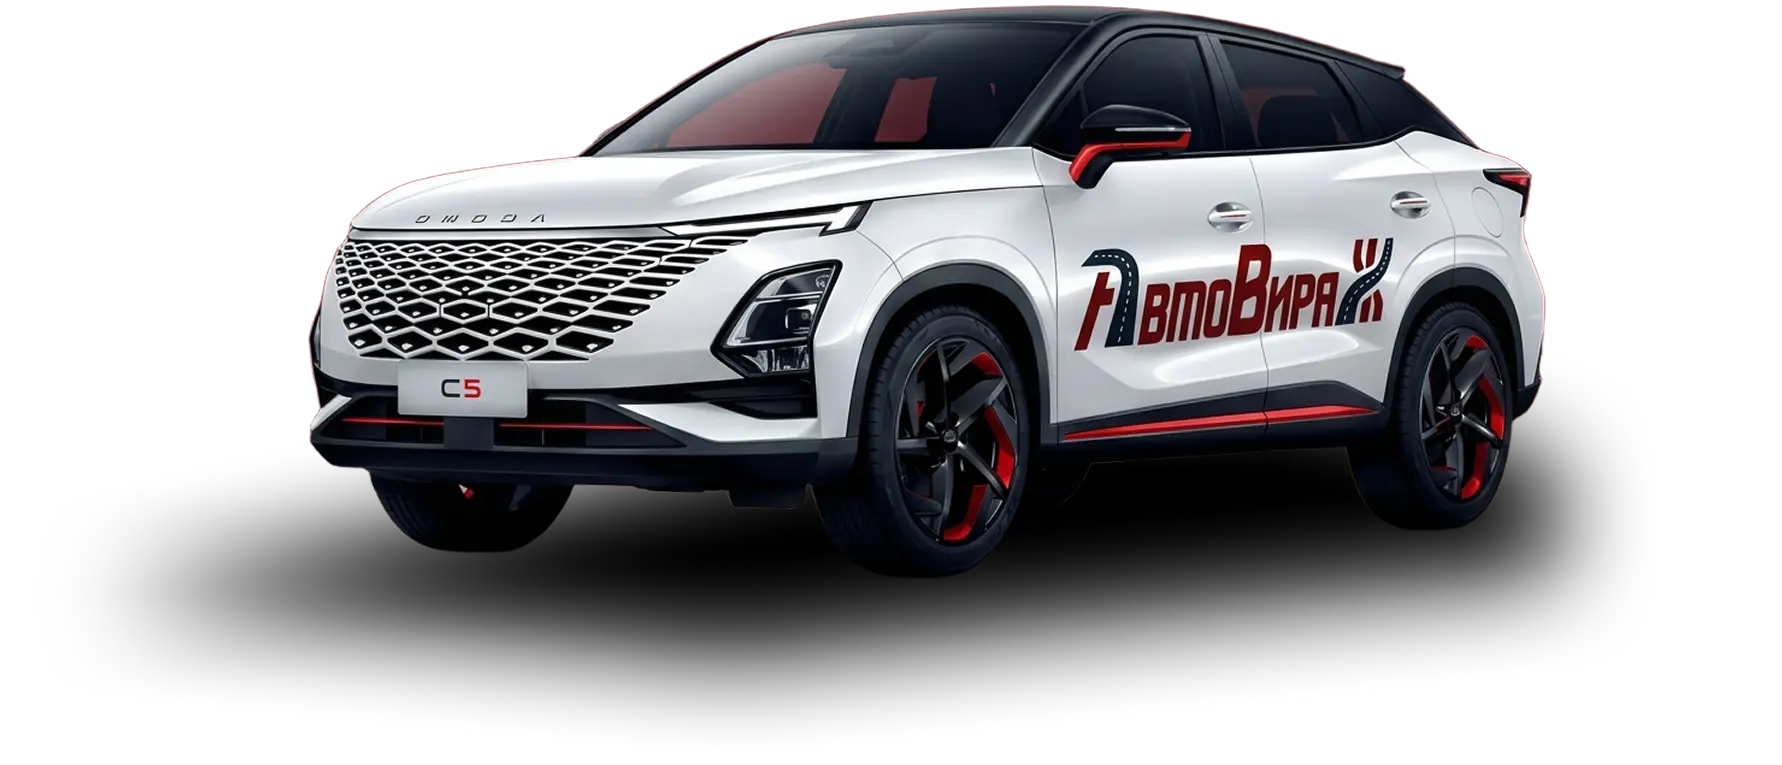
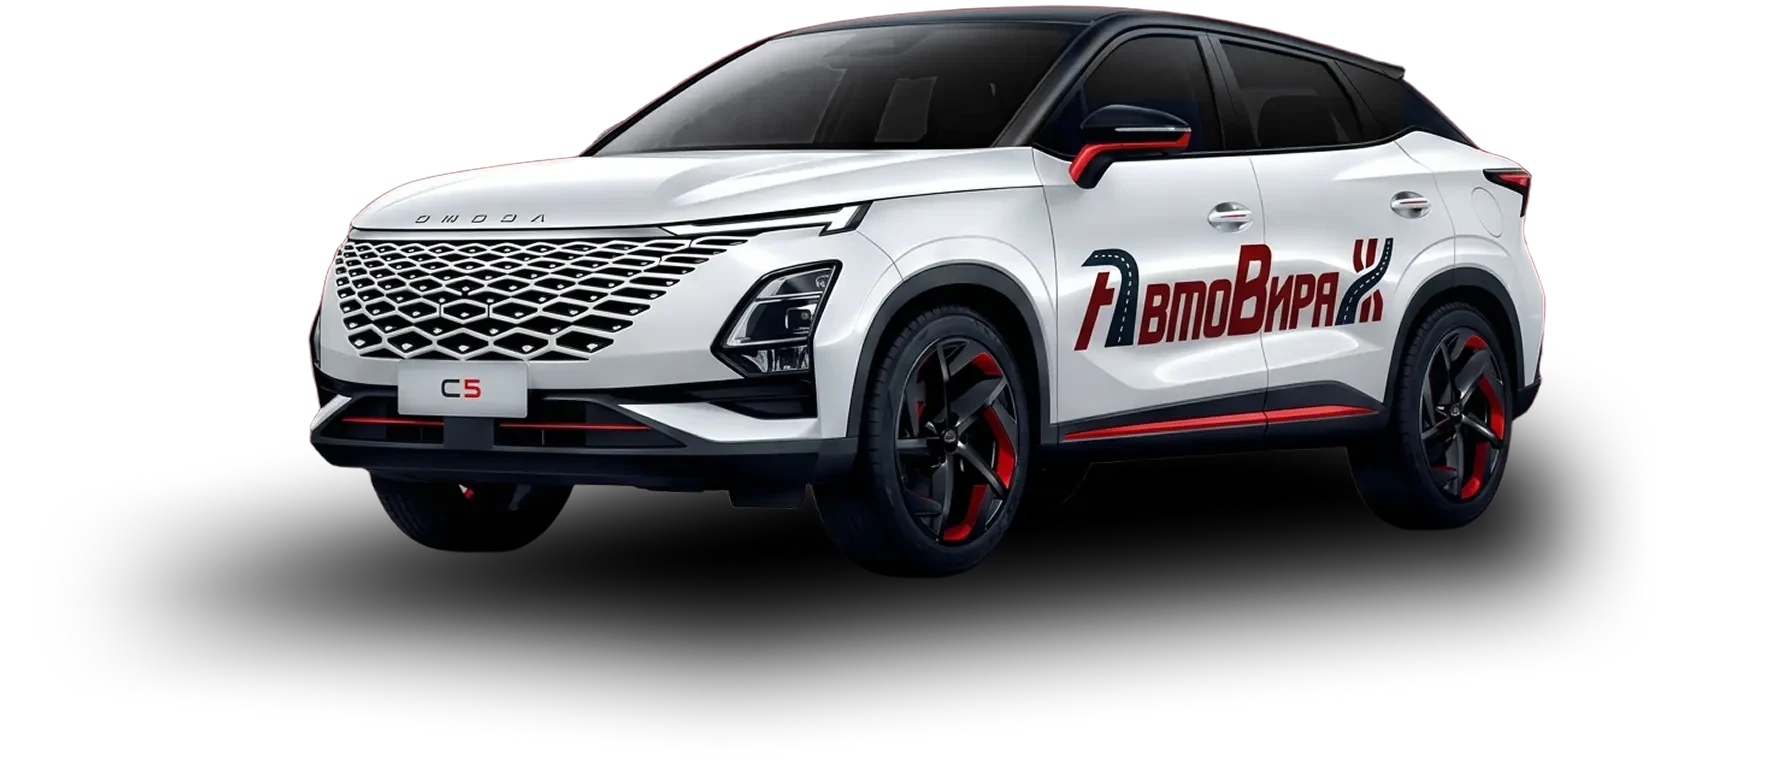
Первый экран: убран красный салон за стёклами Omoda (tools/car-windows.py)

Changed region(s): [[0.3704, 0.0902, 0.5247, 0.2105]]

diff --git a/tools/car-windows.py b/tools/car-windows.py
@@ -1,0 +1,42 @@
+# Убрать красный салон за стёклами Omoda: внутри контура стёкол красные пиксели переводятся в серый той же яркости.
+# Контуры заданы в координатах img/hero-omoda.webp (1782×765); для сцены первого экрана передаём, где там стоит машина.
+#   py -3 tools/car-windows.py <вход> <выход> [ширина_машины X Y] [quality]
+# Сцена:   py -3 tools/car-windows.py img/hero-scene.webp img/hero-scene.webp 939 691 467
+# Телефон: py -3 tools/car-windows.py img/hero-scene-m.webp img/hero-scene-m.webp 939 -69 357
+import sys
+from PIL import Image, ImageDraw, ImageFilter
+import numpy as np
+
+SRC_W = 1782
+GLASS = [  # лобовое стекло; боковые окна над зеркалом и за ним (сам красный корпус зеркала не трогаем)
+    [(590, 156), (640, 112), (790, 34), (1066, 24), (1052, 100), (1038, 152)],
+    [(1086, 34), (1405, 62), (1402, 146), (1204, 152), (1198, 96), (1086, 100)],
+]
+
+src, out = sys.argv[1], sys.argv[2]
+k, ox, oy = 1.0, 0, 0
+if len(sys.argv) >= 6:
+    k, ox, oy = int(sys.argv[3]) / SRC_W, int(sys.argv[4]), int(sys.argv[5])
+quality = int(sys.argv[6]) if len(sys.argv) >= 7 else 88
+
+im = Image.open(src)
+mode = im.mode
+rgba = im.convert('RGBA')
+mask = Image.new('L', rgba.size, 0)
+d = ImageDraw.Draw(mask)
+for poly in GLASS:
+    d.polygon([(x * k + ox, y * k + oy) for x, y in poly], fill=255)
+mask = mask.filter(ImageFilter.GaussianBlur(max(1, 3 * k)))
+
+a = np.asarray(rgba).astype(np.float32)
+r, g, b = a[..., 0], a[..., 1], a[..., 2]
+lum = 0.299 * r + 0.587 * g + 0.114 * b
+red = np.clip((r - np.maximum(g, b)) / 40, 0, 1)        # насколько пиксель красный
+w = np.asarray(mask, dtype=np.float32) / 255             # за стеклом цвет убираем целиком, блики и так серые
+grey = lum * (1 - 0.45 * red)                            # бывшие красные сиденья темнее: салон как за тонировкой
+for i, base in enumerate((grey, grey * 1.01, grey * 1.04)):   # чуть холоднее, как стекло
+    a[..., i] = a[..., i] * (1 - w) + base * w
+res = Image.fromarray(np.clip(a, 0, 255).astype(np.uint8), 'RGBA')
+res = res if mode == 'RGBA' else res.convert('RGB')
+res.save(out, quality=quality, method=6)
+print(f'{out}: изменено пикселей {int((w > .05).sum())}')

diff --git a/docs/visuals.md b/docs/visuals.md
@@ -39,4 +39,6 @@ Professional studio product photography for a catalogue, like an advertisement f
 
 Модель перерисовывает машину, поэтому поверх кладём исходное фото: `py -3 tools/scene-comp.py design/hero-scene/sc-bank.png design/hero-scene/sc-bank-comp.jpg img/hero-omoda.webp design/hero-scene/carpos.txt` (сам находит сдвиг, кладёт исходник только выше порогов — тень и отражение под машиной остаются из сцены, иначе под днищем выходит чёрная подложка исходника).
 
+У исходной Omoda красный салон, через лобовое стекло он читался как красный фон за окном. Его убирает `py -3 tools/car-windows.py` (внутри контура стёкол цвет уходит в тёмно-серый, красный корпус зеркала не трогается): уже применён к `img/hero-omoda.webp`, `img/hero-scene.webp` и `img/hero-scene-m.webp`, команды для сцены в шапке скрипта.
+
 Из `sc-bank-comp.jpg` получены картинки сайта: почти белое доводится до чистого белого, края плавно уходят в белый (на компьютере — справа, сверху и снизу; на телефоне — обрезка 760…1672 × 110…941 и все четыре края). На странице сцена лежит под колонками первого экрана и привязана к его низу: колёса всегда чуть выше панели цены (`.hx-scene` в `assets/css/pages.css`).
